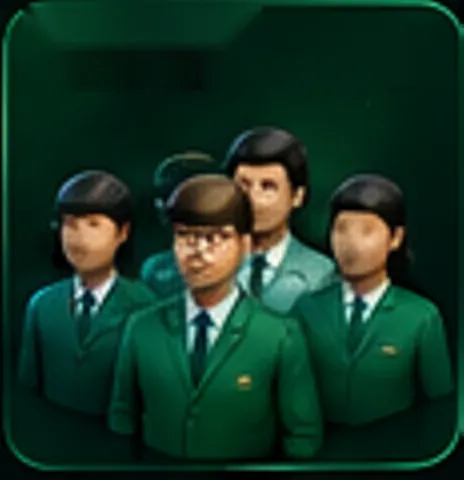
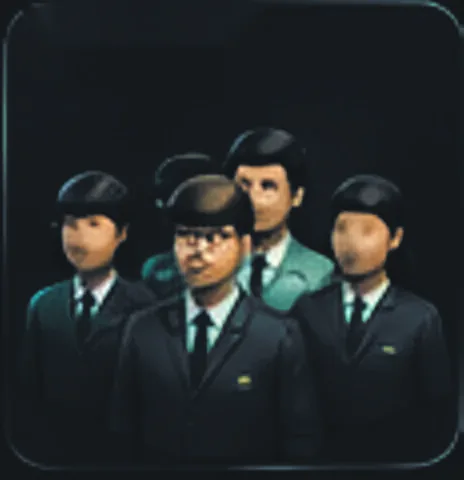
feat(theme): textures et illustrations au fond du theme - graphite sombre WebP, KPI recolorees, fond pages neutralise

diff --git a/frontend/lib/core/widgets/pharma_background.dart b/frontend/lib/core/widgets/pharma_background.dart
@@ -27,14 +27,14 @@ class PharmaBackground extends StatelessWidget {
         assetImage!,
         fit: BoxFit.cover,
         errorBuilder: (_, __, ___) =>
-            const ColoredBox(color: Color(0xFF07130F)),
+            const ColoredBox(color: Color(0xFF12171B)),
       );
     } else if (networkImage != null) {
       bg = Image.network(
         networkImage!,
         fit: BoxFit.cover,
         errorBuilder: (_, __, ___) =>
-            const ColoredBox(color: Color(0xFF07130F)),
+            const ColoredBox(color: Color(0xFF12171B)),
       );
     } else if (kIsWeb) {
       bg = Image.network(
@@ -44,7 +44,7 @@ class PharmaBackground extends StatelessWidget {
           'images/pharma_login_background.jpg',
           fit: BoxFit.cover,
           errorBuilder: (_, __, ___) =>
-              const ColoredBox(color: Color(0xFF07130F)),
+              const ColoredBox(color: Color(0xFF12171B)),
         ),
       );
     } else {
@@ -52,7 +52,7 @@ class PharmaBackground extends StatelessWidget {
         'assets/images/background.webp',
         fit: BoxFit.cover,
         errorBuilder: (_, __, ___) =>
-            const ColoredBox(color: Color(0xFF07130F)),
+            const ColoredBox(color: Color(0xFF12171B)),
       );
     }
 
@@ -64,7 +64,7 @@ class PharmaBackground extends StatelessWidget {
         if (!customImage)
           ColoredBox(
               color:
-                  const Color(0xFF00110A).withValues(alpha: overlayOpacity)),
+                  const Color(0xFF0B0F13).withValues(alpha: overlayOpacity)),
         child,
       ],
     );

diff --git a/frontend/lib/core/widgets/marble_texture.dart b/frontend/lib/core/widgets/marble_texture.dart
@@ -63,12 +63,28 @@ class MarbleBackground extends StatelessWidget {
         ),
       );
     }
+    // Thème sombre : la VRAIE texture graphite métal brossé (WebP léger
+    // 70 Ko), repli peint si l'asset échoue.
     return RepaintBoundary(
-      child: CustomPaint(
-        isComplex: true,
-        willChange: false,
-        painter: _GraphiteBrushedPainter(opacity: opacity),
-        child: child,
+      child: Stack(
+        children: [
+          Positioned.fill(
+            child: CustomPaint(
+              isComplex: true,
+              willChange: false,
+              painter: _GraphiteBrushedPainter(opacity: opacity),
+            ),
+          ),
+          Positioned.fill(
+            child: Image.asset(
+              'assets/images/graphite_principale.webp',
+              fit: BoxFit.cover,
+              filterQuality: FilterQuality.low,
+              errorBuilder: (_, __, ___) => const SizedBox.shrink(),
+            ),
+          ),
+          if (child != null) child!,
+        ],
       ),
     );
   }
